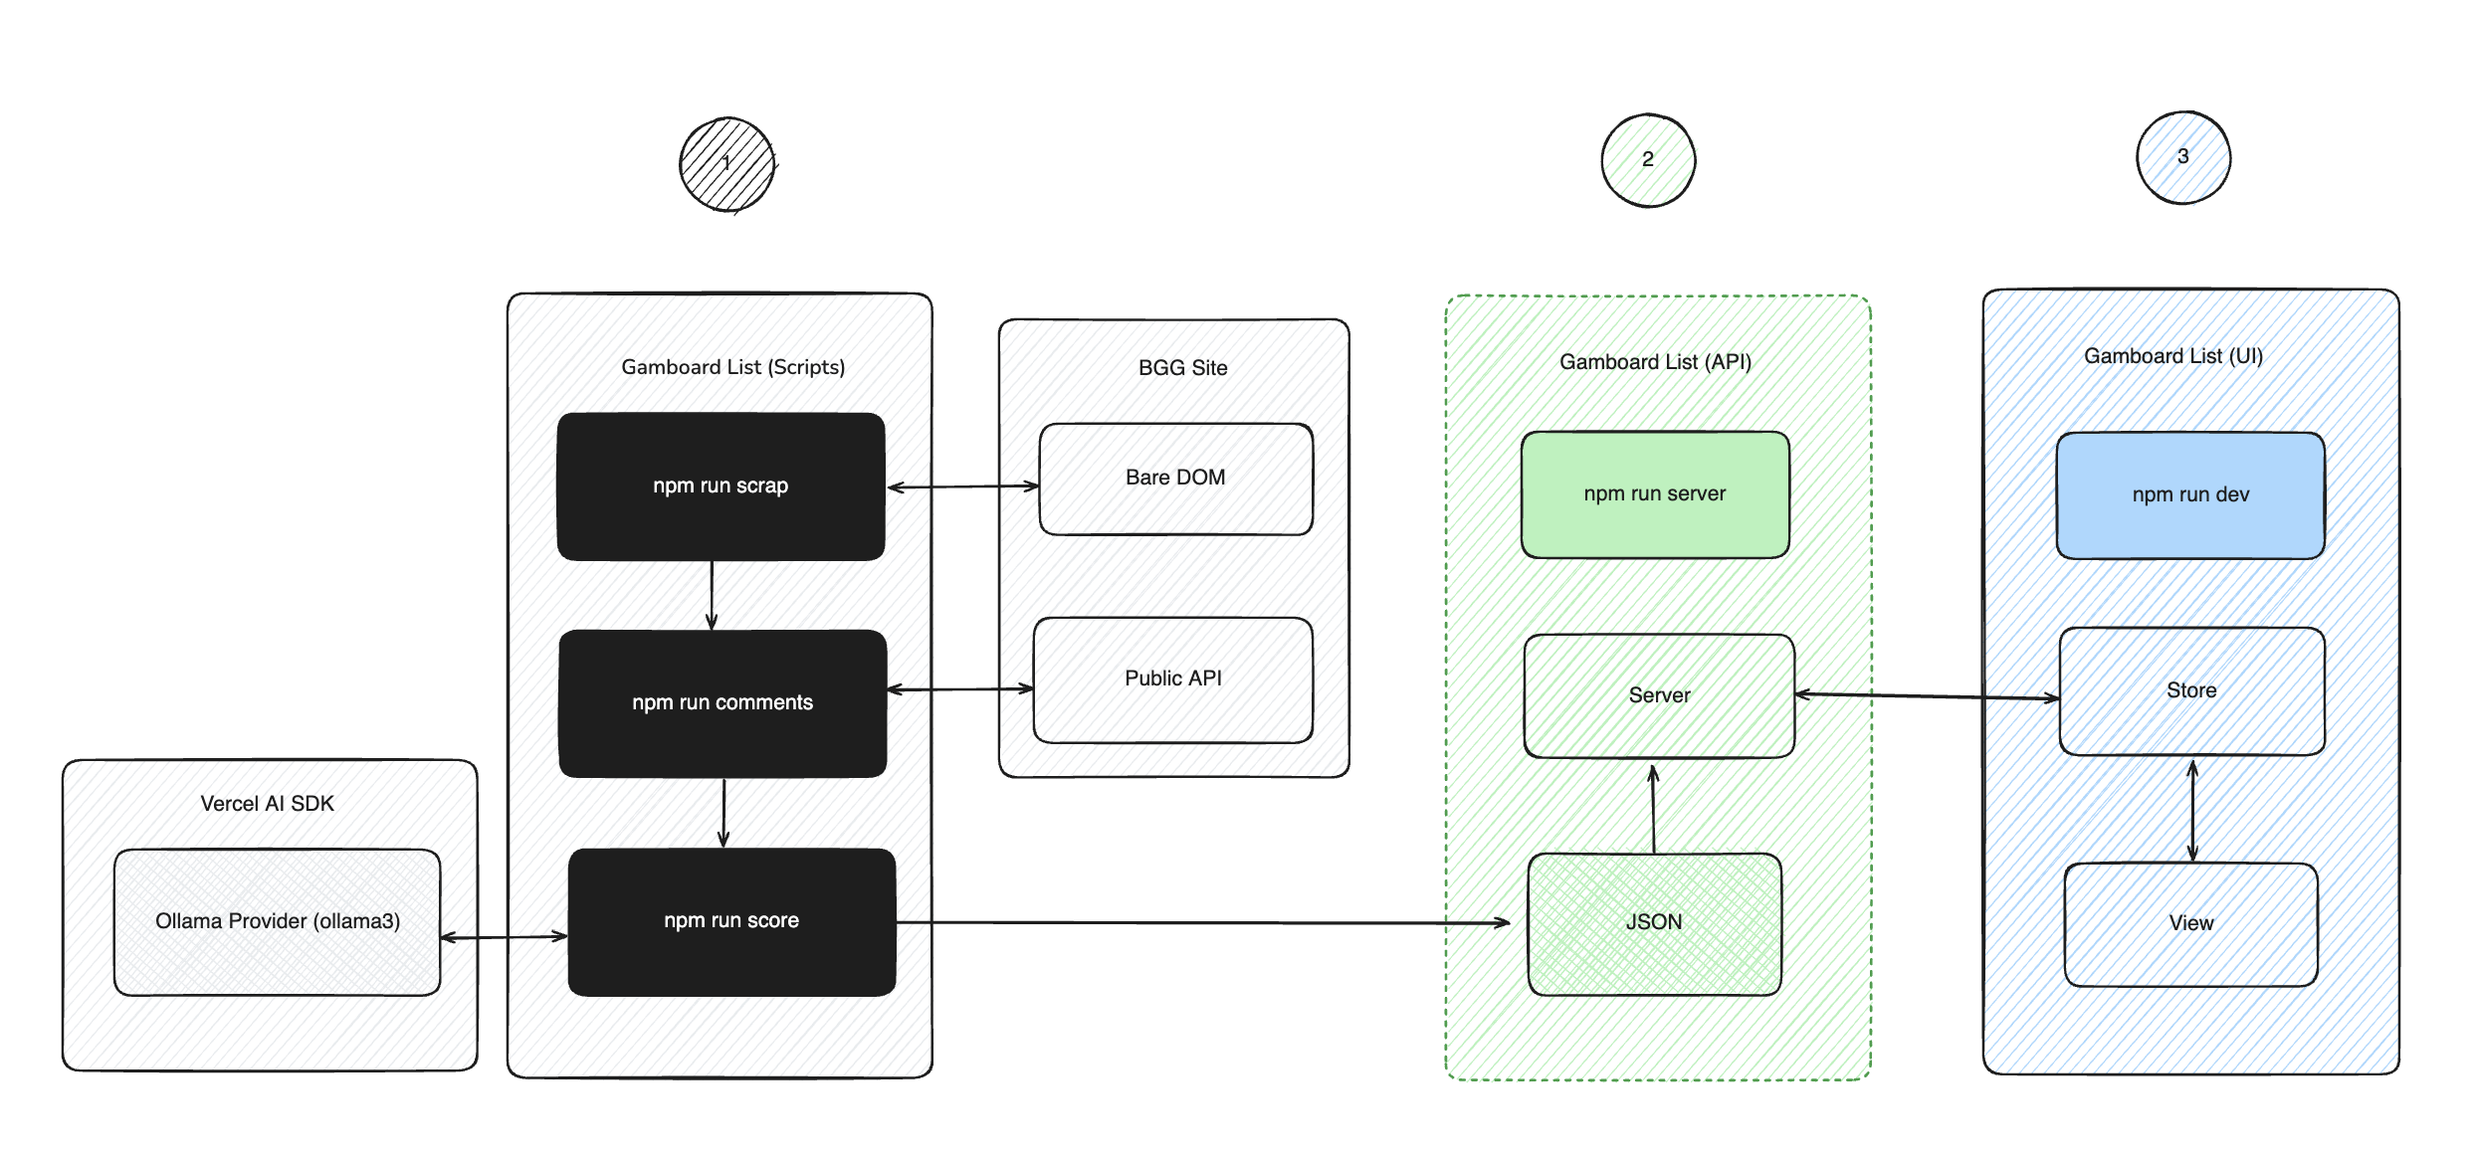
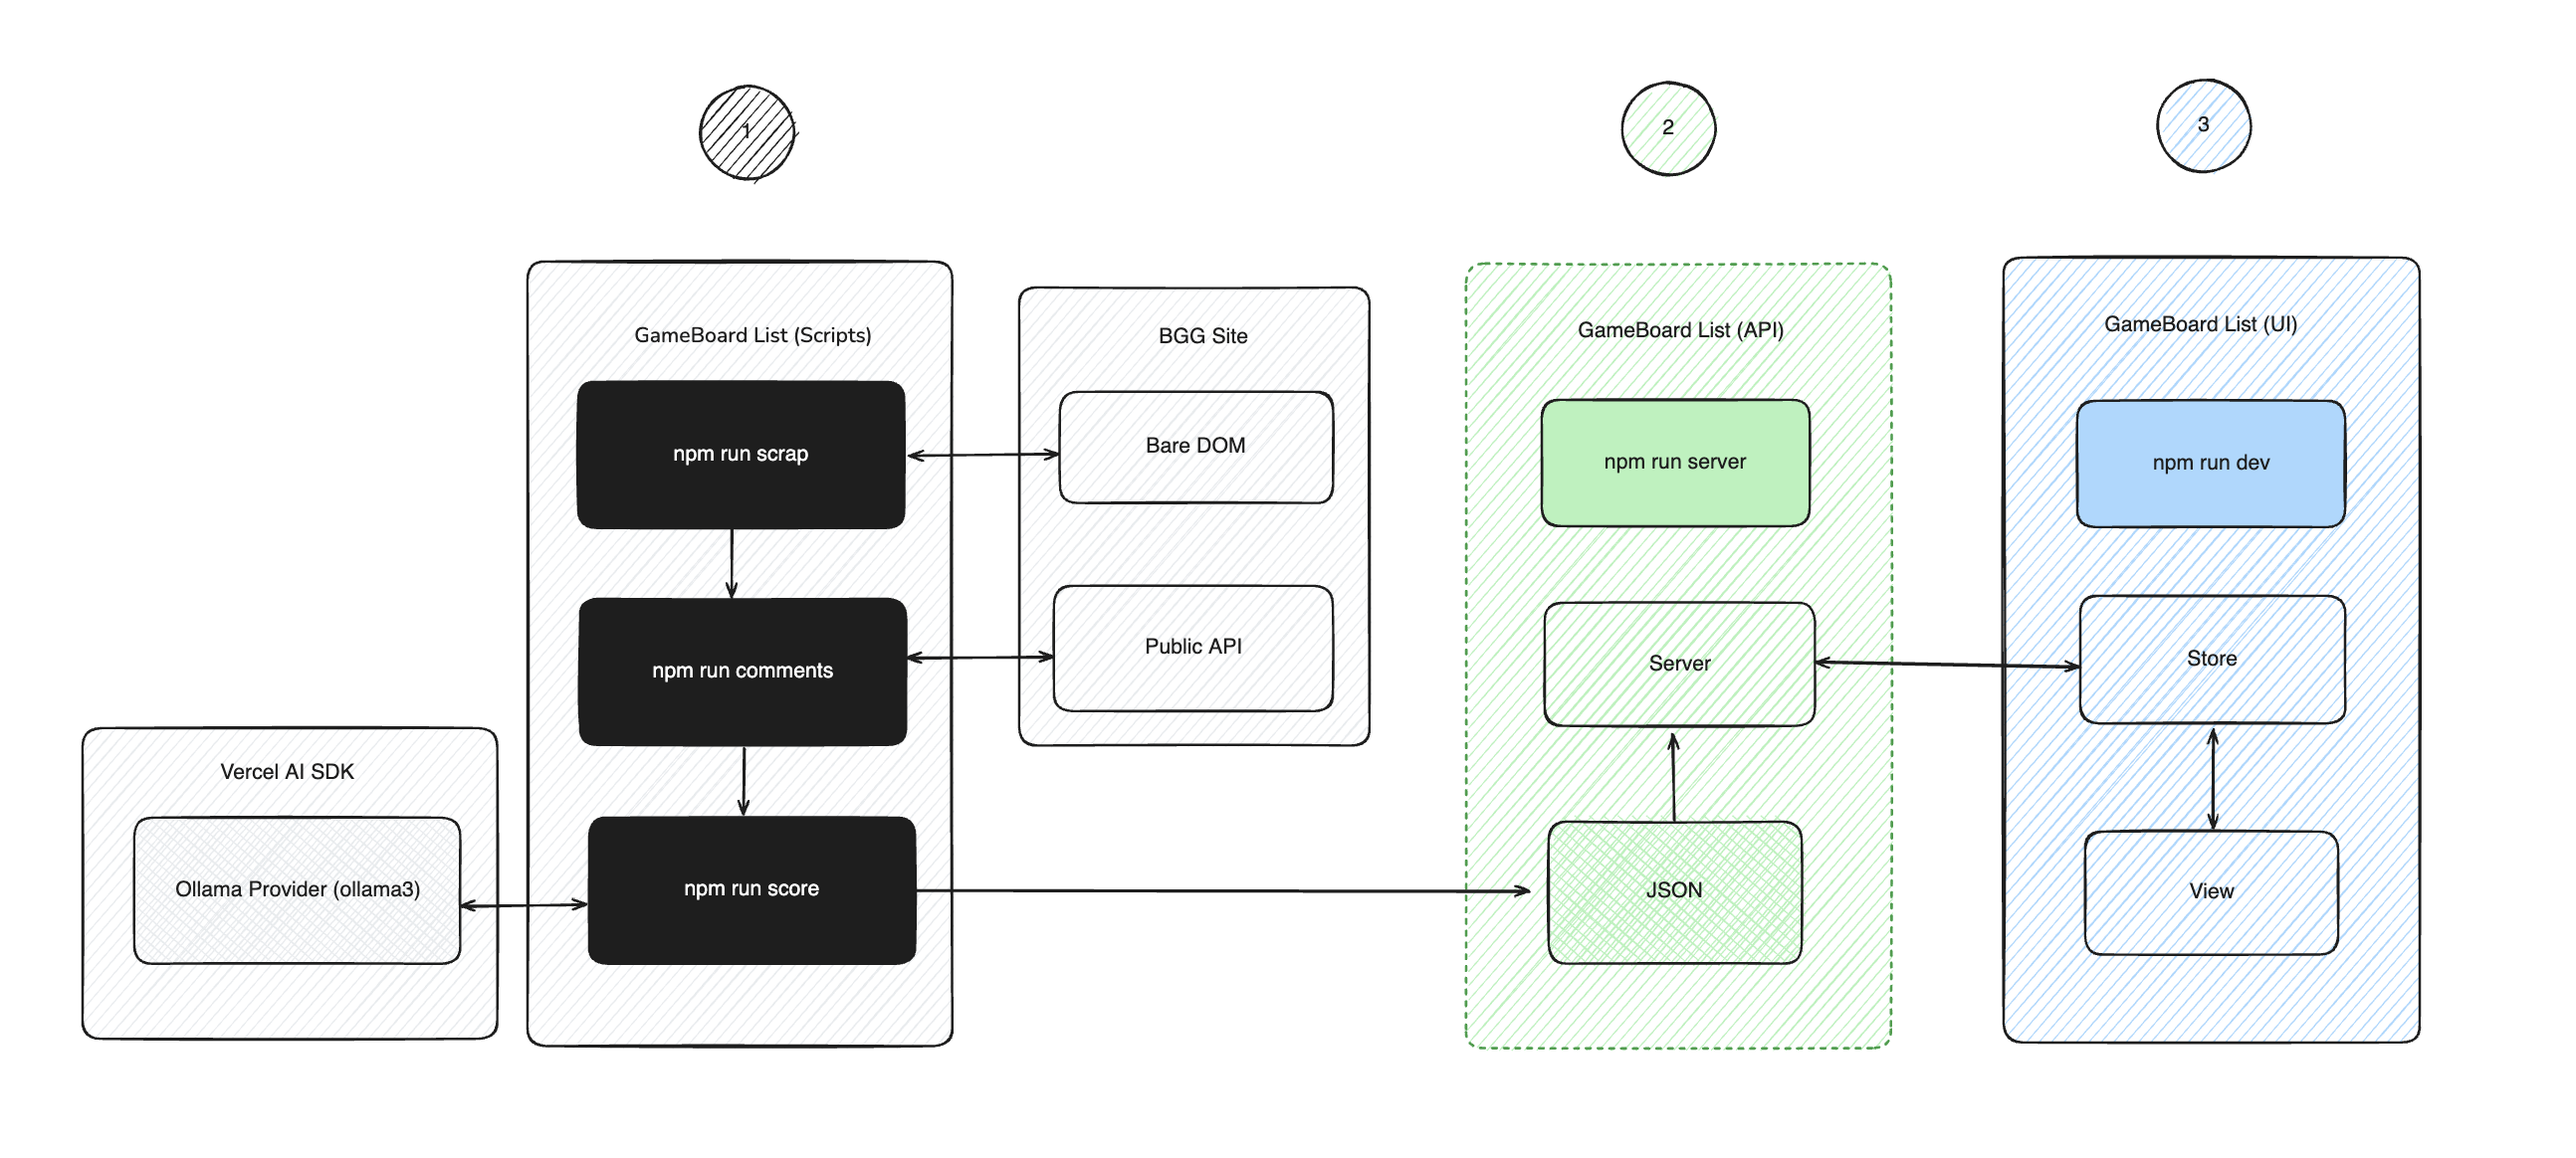
Add env var &  typo fix

diff --git a/src/stores/use-gameboard-list.js b/src/stores/use-gameboard-list.js
@@ -1,7 +1,6 @@
 import { create } from 'zustand';
 
-const BASE_API_URL = `https://${window.location.hostname}`;
-//const BASE_API_URL = `http://${window.location.hostname}:3000`;
+const BASE_API_URL = import.meta.env.BGG_API_URL ?? `http://${window.location.hostname}:3000`;
 
 function sumScore(score, rating) {
   const scoreKeys = Object.keys(score);
